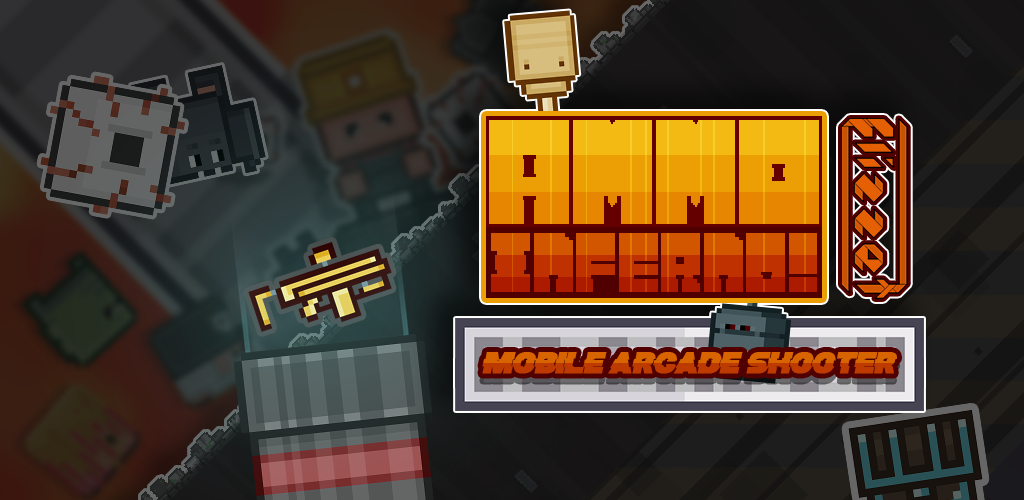
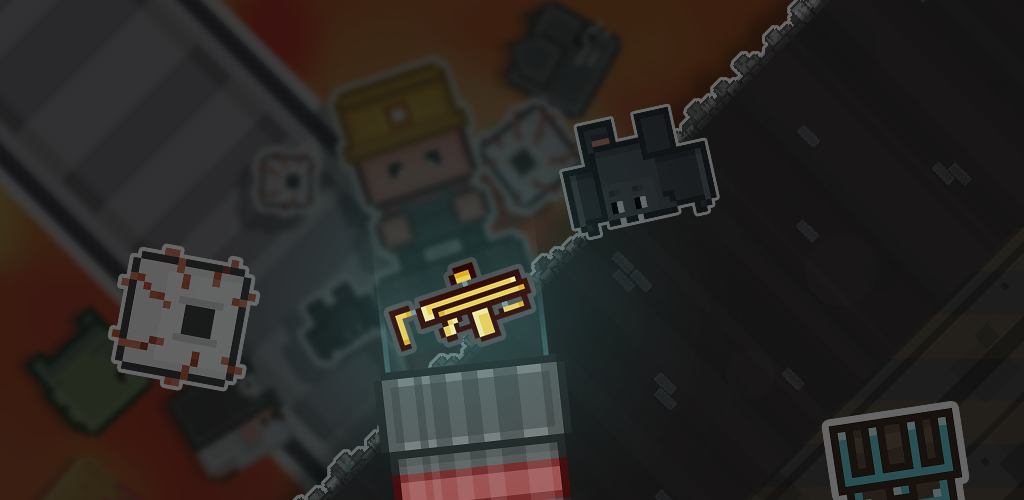
Added mainbanners, similar projects row, cells, hover, animations

diff --git a/styles/proj-page.scss b/styles/proj-page.scss
@@ -196,8 +196,19 @@
         max-width: 100%;
         overflow-x: scroll;
         overflow-y: hidden;
-        // mask-image: -webkit-gradient(linear, left 90%, left bottom, from(rgba(0,0,0,1)), to(rgba(0,0,0,0)));
-        // -webkit-mask-image: -webkit-gradient(linear, left 90%, left bottom, from(rgba(0,0,0,1)), to(rgba(0,0,0,0)));
+        scrollbar-width: none;
+
+        &::-webkit-scrollbar {
+            background-color: rgba(0, 0, 0, 0);
+        }
+           
+        &::-webkit-scrollbar-track {
+            background-color: rgba(0, 0, 0, 0);
+        }
+           
+        &::-webkit-scrollbar-thumb {
+            background-color: rgba(255, 255, 255, 0.4);
+        }
         
         mask-image: -webkit-gradient(linear, left top, right top, color-stop(0%, rgba(0,0,0,0)), color-stop(20%, rgba(0,0,0,1)), color-stop(100%, rgba(0,0,0,1)));
         -webkit-mask-image: -webkit-gradient(linear, left top, right top, color-stop(0%, rgba(0,0,0,0)), color-stop(20%, rgba(0,0,0,1)), color-stop(100%, rgba(0,0,0,1)));
@@ -230,9 +241,124 @@
 }
 
 #similar-projects {
+    // border: 3px dashed white;
     .similar-projects-header h3 {
         font-family: "Manrope", sans-serif;
         font-size: 42px;
         opacity: 0.4;
+    }
+
+    .similar-projects-grid {
+        margin-top: 64px;
+        // border: 3px dashed greenyellow;
+        position: relative;
+        width: 100%;
+        .row {
+            position: relative;
+            display: flex;
+            // border: 3px dashed red;
+            width: 100%;
+            .cell {
+                $indicatorSpacing: 20px;
+                $margin: 24px;
+                position: relative;
+                width: 50%;
+                height: 240px;
+                display: flex;
+                flex-direction: row;
+                overflow: hidden;
+                &:hover {
+                    cursor: pointer;
+                    &::after {
+                        height: 90%;
+                        opacity: 0.5;
+                    }
+                    .similar-project-title {
+                        padding: 0px 64px;
+                        opacity: 1;
+                        .similar-project-subtitle {
+                            opacity: 0.4;
+                        }
+                    }
+                    // $indicatorSpacing: 40px;
+                }
+                &::before {
+                    content: '';
+                    background-color: black;
+                    position: absolute;
+                    width: calc(100% - #{$indicatorSpacing});
+                    height: 90%;
+                    left: 0px;
+                    top: 50%;
+                    transform: translateY(-50%);
+                    opacity: 0.2;
+                    z-index: -1;
+                }
+                &::after {
+                    content: '';
+                    position: absolute;
+                    top: 50%;
+                    left: $indicatorSpacing;
+                    transform: translate(-50%, -50%);
+                    transition: 0.25s;
+                    height: 100%;
+                    width: 2px;
+                    background-color: white;
+                    opacity: 0.25;
+                }
+                &:nth-child(1) {
+                    text-align: right;
+                    &::after {
+                        left: calc(100% - #{$indicatorSpacing});
+                        transform: translate(-100%, -50%);
+                        // right: 0px;
+                    }
+                }
+                &:nth-child(2) {
+                    &::before {
+                        left: auto;
+                        right: 0px;
+                    }
+                }
+            }
+        }
+    }
+
+    .similar-project-title {
+        width: 50%;
+        display: flex;
+        // top: 0px;
+        // bottom: 0px;
+        transition: 0.5s;
+        transition-timing-function: $lightsnapandeaseout;
+        flex-direction: column;
+        align-self: flex-end;
+        font-size: 32px;
+        padding: 0px 52px;
+        opacity: 0.7;
+        .similar-project-subtitle {
+            font-size: 16px;
+            opacity: 0.3;
+        }
+    }
+
+    .similar-project-image {
+        position: relative;
+        max-width: 50%;
+        width: 50%;
+        height: 100%;
+        align-items: safe center;
+        // align-self: center;
+        background-size: cover;
+        background-repeat: no-repeat;
+        background-position: center;
+
+        // min-height: 100%;
+        // border: 10px dotted blue;
+        img {
+            width: 100%;
+            min-height: 100%;
+            height: auto;
+        }
     }
 }

diff --git a/styles/index.css b/styles/index.css
@@ -678,8 +678,18 @@
   max-width: 100%;
   overflow-x: scroll;
   overflow-y: hidden;
+  scrollbar-width: none;
   mask-image: -webkit-gradient(linear, left top, right top, color-stop(0%, rgba(0, 0, 0, 0)), color-stop(20%, black), color-stop(100%, black));
   -webkit-mask-image: -webkit-gradient(linear, left top, right top, color-stop(0%, rgba(0, 0, 0, 0)), color-stop(20%, black), color-stop(100%, black));
+}
+.screenshots-grid .row::-webkit-scrollbar {
+  background-color: rgba(0, 0, 0, 0);
+}
+.screenshots-grid .row::-webkit-scrollbar-track {
+  background-color: rgba(0, 0, 0, 0);
+}
+.screenshots-grid .row::-webkit-scrollbar-thumb {
+  background-color: rgba(255, 255, 255, 0.4);
 }
 .screenshots-grid .row .cell {
   transition: 0.25s;
@@ -708,6 +718,107 @@
   font-family: "Manrope", sans-serif;
   font-size: 42px;
   opacity: 0.4;
+}
+#similar-projects .similar-projects-grid {
+  margin-top: 64px;
+  position: relative;
+  width: 100%;
+}
+#similar-projects .similar-projects-grid .row {
+  position: relative;
+  display: flex;
+  width: 100%;
+}
+#similar-projects .similar-projects-grid .row .cell {
+  position: relative;
+  width: 50%;
+  height: 240px;
+  display: flex;
+  flex-direction: row;
+  overflow: hidden;
+}
+#similar-projects .similar-projects-grid .row .cell:hover {
+  cursor: pointer;
+}
+#similar-projects .similar-projects-grid .row .cell:hover::after {
+  height: 90%;
+  opacity: 0.5;
+}
+#similar-projects .similar-projects-grid .row .cell:hover .similar-project-title {
+  padding: 0px 64px;
+  opacity: 1;
+}
+#similar-projects .similar-projects-grid .row .cell:hover .similar-project-title .similar-project-subtitle {
+  opacity: 0.4;
+}
+#similar-projects .similar-projects-grid .row .cell::before {
+  content: "";
+  background-color: black;
+  position: absolute;
+  width: calc(100% - 20px);
+  height: 90%;
+  left: 0px;
+  top: 50%;
+  transform: translateY(-50%);
+  opacity: 0.2;
+  z-index: -1;
+}
+#similar-projects .similar-projects-grid .row .cell::after {
+  content: "";
+  position: absolute;
+  top: 50%;
+  left: 20px;
+  transform: translate(-50%, -50%);
+  transition: 0.25s;
+  height: 100%;
+  width: 2px;
+  background-color: white;
+  opacity: 0.25;
+}
+#similar-projects .similar-projects-grid .row .cell:nth-child(1) {
+  text-align: right;
+}
+#similar-projects .similar-projects-grid .row .cell:nth-child(1)::after {
+  left: calc(100% - 20px);
+  transform: translate(-100%, -50%);
+}
+#similar-projects .similar-projects-grid .row .cell:nth-child(2)::before {
+  left: auto;
+  right: 0px;
+}
+#similar-projects .similar-project-title {
+  width: 50%;
+  display: flex;
+  transition: 0.5s;
+  transition-timing-function: cubic-bezier(0.07, 0.75, 0.32, 0.96);
+  flex-direction: column;
+  align-self: flex-end;
+  font-size: 32px;
+  padding: 0px 52px;
+  opacity: 0.7;
+}
+#similar-projects .similar-project-title .similar-project-subtitle {
+  font-size: 16px;
+  opacity: 0.3;
+}
+#similar-projects .similar-project-image {
+  position: relative;
+  max-width: 50%;
+  width: 50%;
+  height: 100%;
+  align-items: safe center;
+  background-size: cover;
+  background-repeat: no-repeat;
+  background-position: center;
+}
+#similar-projects .similar-project-image img {
+  width: 100%;
+  min-height: 100%;
+  height: auto;
+}
+
+html {
+  scroll-behavior: smooth;
 }
 
 * {

diff --git a/projects/ammoinferno/ammoinferno.html b/projects/ammoinferno/ammoinferno.html
@@ -122,6 +122,33 @@
             <div class="similar-projects-header">
                 <h3>Similar Projects</h3>
             </div>
+
+            <div class="similar-projects-grid">
+                <div class="row">
+                    <div class="cell">
+                        <div class="similar-project-image"
+                            style="background-image: url('../../assets/project-imgs/mainbanners/almostahero.png')">
+                        </div>
+                        <div class="similar-project-title">
+                            <div class="similar-project-subtitle">
+                                Playable Ad
+                            </div>
+                            Almost A Hero
+                        </div>
+                    </div>
+                    <div class="cell">
+                        <div class="similar-project-title">
+                            <div class="similar-project-subtitle">
+                                Mobile Game
+                            </div>
+                            Jetpack Boy
+                        </div>
+                        <div class="similar-project-image"
+                            style="background-image: url('../../assets/project-imgs/mainbanners/jetpackboy.png')">
+                        </div>
+                    </div>
+                </div>
+            </div>
         </div>
     </div>
 

diff --git a/styles/index.scss b/styles/index.scss
@@ -3,6 +3,11 @@
 @import './proj-page.scss';
 @import './vars.scss';
 
+html {
+    scroll-behavior: smooth;
+}
+  
+
 * {
     font-family: 'Cormorant Garamond', serif;
     color: white;
